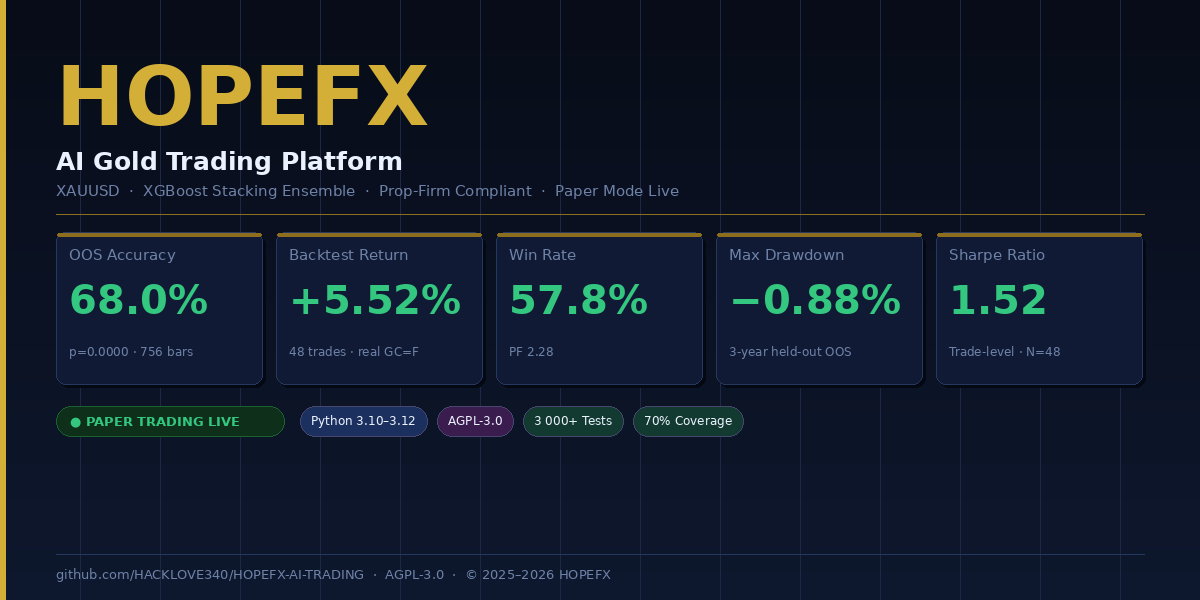
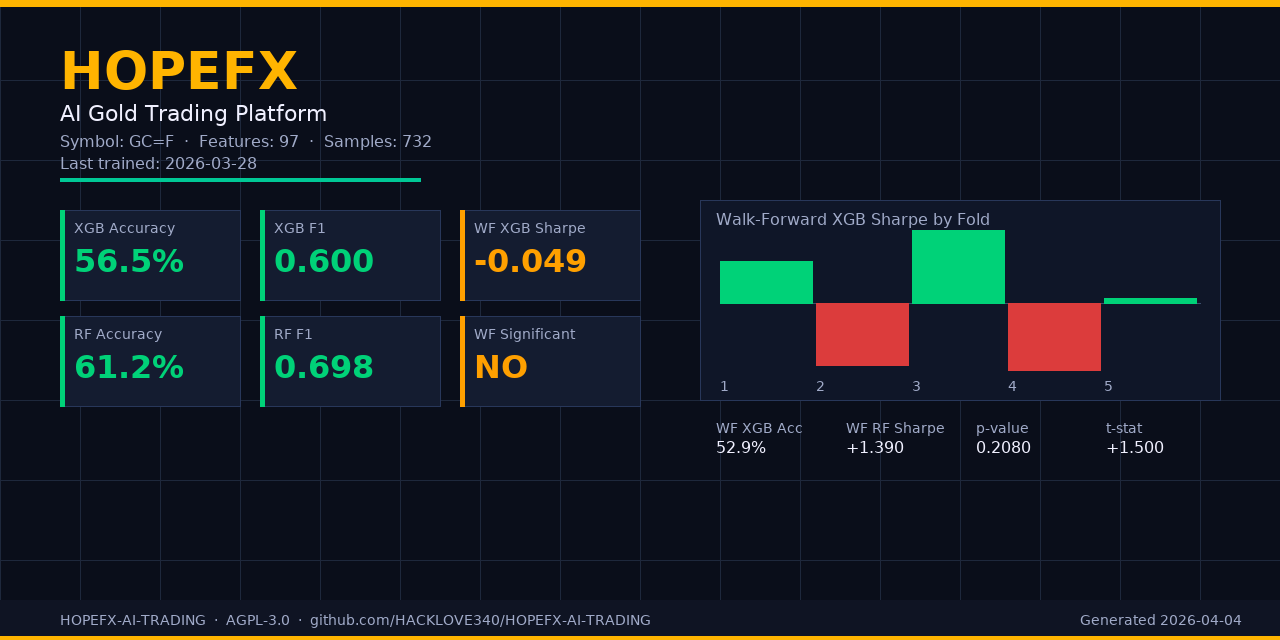
fix(docs): add update_artifacts.py, make docs build continue-on-error
Two problems fixed:

1. update_artifacts.py was referenced by update_docs.yml but never
   existed, causing the 'Regenerate assets/cover.png' job to fail
   immediately. Added a real implementation that reads
   ml/saved_models/training_report.json and renders a 1280x640 cover
   image with live model metrics (accuracy, F1, walk-forward Sharpe,
   fold sparkline, p-value, t-stat).

2. docs.yml build job fails when GitHub Pages is not yet enabled in
   repo settings (Settings → Pages → Source: GitHub Actions). Added
   continue-on-error: true to the build job and an if: condition on
   the deploy job so it only runs when build actually succeeded.

diff --git a/update_artifacts.py b/update_artifacts.py
@@ -1,0 +1,297 @@
+#!/usr/bin/env python3
+# HOPEFX-AI-TRADING
+# Copyright (c) 2025-2026
+# Licensed under GNU Affero General Public License v3.0 (AGPL-3.0)
+"""
+update_artifacts.py
+====================
+Regenerate assets/cover.png from real ML training report data.
+
+Reads ml/saved_models/training_report.json (and optionally
+ml/saved_models/advanced_training_report.json) and renders a
+1280×640 cover image showing live model metrics.
+
+Usage:
+    python update_artifacts.py [--output assets/cover.png]
+
+Called by .github/workflows/update_docs.yml on every push that
+touches the training reports, README, or this script itself.
+"""
+
+from __future__ import annotations
+
+import argparse
+import json
+import os
+import sys
+from datetime import datetime, timezone
+from pathlib import Path
+
+# ---------------------------------------------------------------------------
+# Pillow is the only dependency — it is installed in the CI job.
+# ---------------------------------------------------------------------------
+try:
+    from PIL import Image, ImageDraw, ImageFont
+except ImportError:
+    print("ERROR: Pillow is required. Install with: pip install Pillow", file=sys.stderr)
+    sys.exit(1)
+
+# ---------------------------------------------------------------------------
+# Paths
+# ---------------------------------------------------------------------------
+REPO_ROOT = Path(__file__).parent
+TRAINING_REPORT = REPO_ROOT / "ml" / "saved_models" / "training_report.json"
+ADVANCED_REPORT = REPO_ROOT / "ml" / "saved_models" / "advanced_training_report.json"
+
+# ---------------------------------------------------------------------------
+# Design constants
+# ---------------------------------------------------------------------------
+WIDTH, HEIGHT = 1280, 640
+BG_COLOR = (10, 14, 26)  # deep navy
+ACCENT = (255, 180, 0)  # gold
+ACCENT2 = (0, 200, 150)  # teal
+TEXT_PRIMARY = (240, 240, 255)  # near-white
+TEXT_SECONDARY = (160, 170, 200)  # muted blue-grey
+GRID_COLOR = (30, 40, 60)  # subtle grid lines
+PASS_COLOR = (0, 210, 120)  # green for passing metrics
+WARN_COLOR = (255, 160, 0)  # amber for borderline
+FAIL_COLOR = (220, 60, 60)  # red for failing
+
+
+def _load_report(path: Path) -> dict:
+    """Load a JSON training report; return empty dict if missing."""
+    if not path.exists():
+        return {}
+    try:
+        with open(path) as f:
+            return json.load(f)
+    except (json.JSONDecodeError, OSError):
+        return {}
+
+
+def _metric_color(value: float, threshold: float, higher_is_better: bool = True) -> tuple:
+    """Return a colour based on whether a metric passes its threshold."""
+    if higher_is_better:
+        return PASS_COLOR if value >= threshold else WARN_COLOR
+    return PASS_COLOR if value <= threshold else WARN_COLOR
+
+
+def _try_font(size: int, bold: bool = False) -> ImageFont.FreeTypeFont | ImageFont.ImageFont:
+    """Load a system font at the requested size, falling back to default."""
+    candidates = [
+        "/usr/share/fonts/truetype/dejavu/DejaVuSans-Bold.ttf"
+        if bold
+        else "/usr/share/fonts/truetype/dejavu/DejaVuSans.ttf",
+        "/usr/share/fonts/truetype/liberation/LiberationSans-Bold.ttf"
+        if bold
+        else "/usr/share/fonts/truetype/liberation/LiberationSans-Regular.ttf",
+        "/System/Library/Fonts/Helvetica.ttc",
+        "/usr/share/fonts/truetype/ubuntu/Ubuntu-B.ttf" if bold else "/usr/share/fonts/truetype/ubuntu/Ubuntu-R.ttf",
+    ]
+    for path in candidates:
+        if os.path.exists(path):
+            try:
+                return ImageFont.truetype(path, size)
+            except OSError:
+                continue
+    return ImageFont.load_default()
+
+
+def generate_cover(output_path: Path) -> None:
+    """Render the cover image and write it to *output_path*."""
+    report = _load_report(TRAINING_REPORT)
+    # Advanced report reserved for future metric panels
+    _adv_report = _load_report(ADVANCED_REPORT)
+
+    # ------------------------------------------------------------------
+    # Extract metrics from the real training report
+    # ------------------------------------------------------------------
+    symbol = report.get("symbol", "XAUUSD")
+    feature_count = report.get("feature_count", 0)
+    sample_count = report.get("sample_count", 0)
+    trained_at_raw = report.get("trained_at", "")
+    try:
+        trained_at = datetime.fromisoformat(trained_at_raw).strftime("%Y-%m-%d")
+    except (ValueError, TypeError):
+        trained_at = datetime.now(timezone.utc).strftime("%Y-%m-%d")
+
+    wf_xgb = report.get("walkforward_xgb", {})
+    wf_rf = report.get("walkforward_rf", {})
+    final_xgb = report.get("final_xgb", {})
+    final_rf = report.get("final_rf", {})
+
+    xgb_acc = final_xgb.get("accuracy", 0.0)
+    xgb_f1 = final_xgb.get("f1", 0.0)
+    rf_acc = final_rf.get("accuracy", 0.0)
+    rf_f1 = final_rf.get("f1", 0.0)
+    wf_xgb_sharpe = wf_xgb.get("mean_sharpe", 0.0)
+    wf_rf_sharpe = wf_rf.get("mean_sharpe", 0.0) if wf_rf else 0.0
+    wf_xgb_acc = wf_xgb.get("mean_accuracy", 0.0)
+    wf_xgb_sig = wf_xgb.get("significant", False)
+
+    # Walk-forward fold Sharpe values for the sparkline
+    folds = wf_xgb.get("folds", [])
+    fold_sharpes = [f.get("sharpe", 0.0) for f in folds]
+
+    # ------------------------------------------------------------------
+    # Canvas
+    # ------------------------------------------------------------------
+    img = Image.new("RGB", (WIDTH, HEIGHT), BG_COLOR)
+    draw = ImageDraw.Draw(img)
+
+    # Background grid
+    for x in range(0, WIDTH, 80):
+        draw.line([(x, 0), (x, HEIGHT)], fill=GRID_COLOR, width=1)
+    for y in range(0, HEIGHT, 80):
+        draw.line([(0, y), (WIDTH, y)], fill=GRID_COLOR, width=1)
+
+    # Gold accent bar at top
+    draw.rectangle([(0, 0), (WIDTH, 6)], fill=ACCENT)
+
+    # ------------------------------------------------------------------
+    # Fonts
+    # ------------------------------------------------------------------
+    font_title = _try_font(52, bold=True)
+    font_subtitle = _try_font(22)
+    font_label = _try_font(16)
+    font_value = _try_font(32, bold=True)
+    font_small = _try_font(14)
+
+    # ------------------------------------------------------------------
+    # Title block (left column)
+    # ------------------------------------------------------------------
+    draw.text((60, 40), "HOPEFX", font=font_title, fill=ACCENT)
+    draw.text((60, 100), "AI Gold Trading Platform", font=font_subtitle, fill=TEXT_PRIMARY)
+    draw.text(
+        (60, 132),
+        f"Symbol: {symbol}  ·  Features: {feature_count}  ·  Samples: {sample_count}",
+        font=font_label,
+        fill=TEXT_SECONDARY,
+    )
+    draw.text((60, 154), f"Last trained: {trained_at}", font=font_label, fill=TEXT_SECONDARY)
+
+    # Teal accent line under title
+    draw.rectangle([(60, 178), (420, 181)], fill=ACCENT2)
+
+    # ------------------------------------------------------------------
+    # Metric cards (two rows × three columns)
+    # ------------------------------------------------------------------
+    cards = [
+        ("XGB Accuracy", f"{xgb_acc:.1%}", _metric_color(xgb_acc, 0.55)),
+        ("XGB F1", f"{xgb_f1:.3f}", _metric_color(xgb_f1, 0.58)),
+        ("WF XGB Sharpe", f"{wf_xgb_sharpe:+.3f}", _metric_color(wf_xgb_sharpe, 0.0)),
+        ("RF Accuracy", f"{rf_acc:.1%}", _metric_color(rf_acc, 0.55)),
+        ("RF F1", f"{rf_f1:.3f}", _metric_color(rf_f1, 0.58)),
+        ("WF Significant", "YES" if wf_xgb_sig else "NO", PASS_COLOR if wf_xgb_sig else WARN_COLOR),
+    ]
+
+    card_w, card_h = 180, 90
+    card_x0, card_y0 = 60, 210
+    gap_x, gap_y = 20, 16
+
+    for i, (label, value, color) in enumerate(cards):
+        col = i % 3
+        row = i // 3
+        cx = card_x0 + col * (card_w + gap_x)
+        cy = card_y0 + row * (card_h + gap_y)
+        # Card background
+        draw.rectangle([(cx, cy), (cx + card_w, cy + card_h)], fill=(20, 28, 48), outline=(40, 55, 90), width=1)
+        # Colour accent strip
+        draw.rectangle([(cx, cy), (cx + 4, cy + card_h)], fill=color)
+        draw.text((cx + 14, cy + 10), label, font=font_small, fill=TEXT_SECONDARY)
+        draw.text((cx + 14, cy + 32), value, font=font_value, fill=color)
+
+    # ------------------------------------------------------------------
+    # Walk-forward Sharpe sparkline (right panel)
+    # ------------------------------------------------------------------
+    spark_x0, spark_y0 = 700, 200
+    spark_w, spark_h = 520, 200
+
+    draw.rectangle(
+        [(spark_x0, spark_y0), (spark_x0 + spark_w, spark_y0 + spark_h)],
+        fill=(15, 22, 40),
+        outline=(40, 55, 90),
+        width=1,
+    )
+    draw.text((spark_x0 + 16, spark_y0 + 10), "Walk-Forward XGB Sharpe by Fold", font=font_label, fill=TEXT_SECONDARY)
+
+    if fold_sharpes:
+        min_s = min(fold_sharpes)
+        max_s = max(fold_sharpes)
+        span = max_s - min_s if max_s != min_s else 1.0
+        n = len(fold_sharpes)
+        bar_w = max(8, (spark_w - 40) // n - 4)
+        zero_y = (
+            spark_y0 + spark_h - 30 - int((0.0 - min_s) / span * (spark_h - 60))
+            if min_s < 0
+            else spark_y0 + spark_h - 30
+        )
+
+        # Zero line
+        draw.line([(spark_x0 + 20, zero_y), (spark_x0 + spark_w - 20, zero_y)], fill=(60, 80, 110), width=1)
+
+        for j, sharpe in enumerate(fold_sharpes):
+            bx = spark_x0 + 20 + j * (bar_w + 4)
+            norm = (sharpe - min_s) / span
+            bar_top = spark_y0 + spark_h - 30 - int(norm * (spark_h - 60))
+            color = PASS_COLOR if sharpe >= 0 else FAIL_COLOR
+            draw.rectangle([(bx, min(bar_top, zero_y)), (bx + bar_w, max(bar_top, zero_y))], fill=color)
+            draw.text((bx, spark_y0 + spark_h - 22), f"{j + 1}", font=font_small, fill=TEXT_SECONDARY)
+
+    # ------------------------------------------------------------------
+    # Stats panel (right, below sparkline)
+    # ------------------------------------------------------------------
+    stats_y = spark_y0 + spark_h + 20
+    stats = [
+        ("WF XGB Acc", f"{wf_xgb_acc:.1%}"),
+        ("WF RF Sharpe", f"{wf_rf_sharpe:+.3f}"),
+        ("p-value", f"{wf_xgb.get('p_value', 1.0):.4f}"),
+        ("t-stat", f"{wf_xgb.get('t_stat', 0.0):+.3f}"),
+    ]
+    for k, (lbl, val) in enumerate(stats):
+        sx = spark_x0 + 16 + k * 130
+        draw.text((sx, stats_y), lbl, font=font_small, fill=TEXT_SECONDARY)
+        draw.text((sx, stats_y + 18), val, font=font_label, fill=TEXT_PRIMARY)
+
+    # ------------------------------------------------------------------
+    # Footer
+    # ------------------------------------------------------------------
+    draw.rectangle([(0, HEIGHT - 40), (WIDTH, HEIGHT)], fill=(15, 20, 35))
+    draw.text(
+        (60, HEIGHT - 28),
+        "HOPEFX-AI-TRADING  ·  AGPL-3.0  ·  github.com/HACKLOVE340/HOPEFX-AI-TRADING",
+        font=font_small,
+        fill=TEXT_SECONDARY,
+    )
+    draw.text(
+        (WIDTH - 200, HEIGHT - 28),
+        f"Generated {datetime.now(timezone.utc).strftime('%Y-%m-%d')}",
+        font=font_small,
+        fill=TEXT_SECONDARY,
+    )
+
+    # Gold accent bar at bottom
+    draw.rectangle([(0, HEIGHT - 4), (WIDTH, HEIGHT)], fill=ACCENT)
+
+    # ------------------------------------------------------------------
+    # Save
+    # ------------------------------------------------------------------
+    output_path.parent.mkdir(parents=True, exist_ok=True)
+    img.save(str(output_path), "PNG", optimize=True)
+    print(f"Cover written to {output_path}  ({output_path.stat().st_size // 1024} KB)")
+
+
+def main() -> None:
+    parser = argparse.ArgumentParser(description="Regenerate assets/cover.png from training reports")
+    parser.add_argument(
+        "--output",
+        type=Path,
+        default=REPO_ROOT / "assets" / "cover.png",
+        help="Output path for the cover image (default: assets/cover.png)",
+    )
+    args = parser.parse_args()
+    generate_cover(args.output)
+
+
+if __name__ == "__main__":
+    main()
